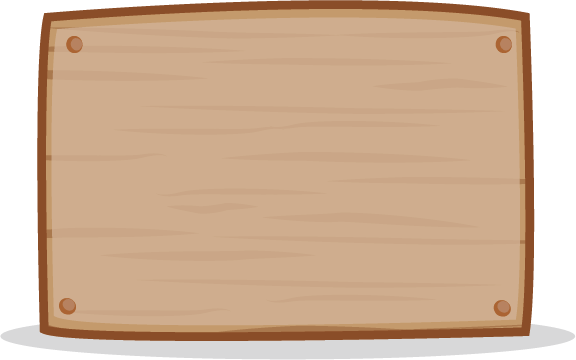
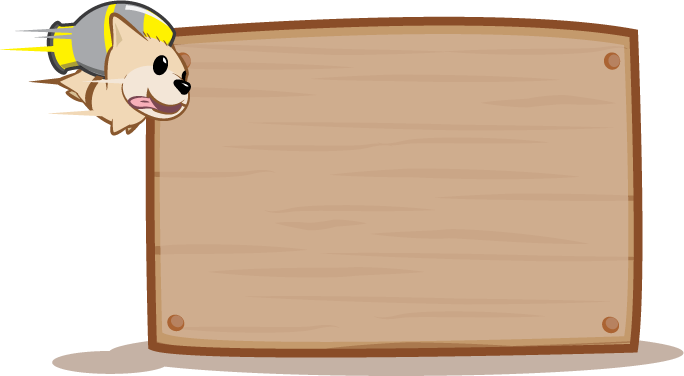
Fixed the pups positioning next to slider

diff --git a/index.html b/index.html
@@ -104,9 +104,7 @@
 			    <div class="row">
 			    	<div class="col-6-xs col-md-6">
 			    		<div class="slider_background_tan">
-                            <img id="rocket_pup" src="images/rocket_pup.png">
-                            <img id="rocket_pup_shadow" src="images/rocket_pup_shadow.png">
-				    		<div class="carousel-container">
+				    		<div class="carousel-container_features">
 					          	<div id="features_carousel" class="carousel slide carousel-fade">
 
 						            <!-- Carousel items -->
@@ -169,9 +167,7 @@
 
 						<div class="col-6-xs col-md-6">
 				    		<div class="slider_background_brown">
-                                <img id="robot_pups" src="images/robot_pups.png">
-                                <img id="sleeping_pup" src="images/sleeping_pup.png">
-					    		<div class="carousel-container">
+					    		<div class="carousel-container_screenshots">
 						          	<div id="screenshots_carousel" class="carousel slide carousel-fade">
 
 							            <!-- Carousel items -->

diff --git a/index.css b/index.css
@@ -220,11 +220,11 @@ h1, h2, h3 {
 }
 
 .slider_background_tan {
-	background-image: url("images/slider_tan_bg.png");
+	background-image: url("images/slider_brown_bg.png");
 }
 
 .slider_background_brown {
-	background-image: url("images/slider_brown_bg.png");
+	background-image: url("images/slider_tan_bg.png");
 }
 
 .slider_background_tan, .slider_background_brown {
@@ -235,16 +235,24 @@ h1, h2, h3 {
 }
 
 .slider_background_tan:after, .slider_background_brown:after {
-    padding-top: 56.25%; /*16:9 ratio*/
+    padding-top: 54.97%; /*16:9 ratio*/
     display: block;
     content: '';
 }
 
-.carousel-container {
+.carousel-container_features {
 	position: absolute;
-	width: 85%;
-    padding-left: 15%;
-  	padding-top: 10%;
+	width: 60%;
+    margin-left: 28%;
+  	margin-top: 11%;
+}
+
+
+.carousel-container_screenshots {
+	position: absolute;
+	width: 63%;
+    margin-left: 16%;
+  	margin-top: 10%;
 }
 
 .carousel>.carousel-inner>.item>.circleElement {
